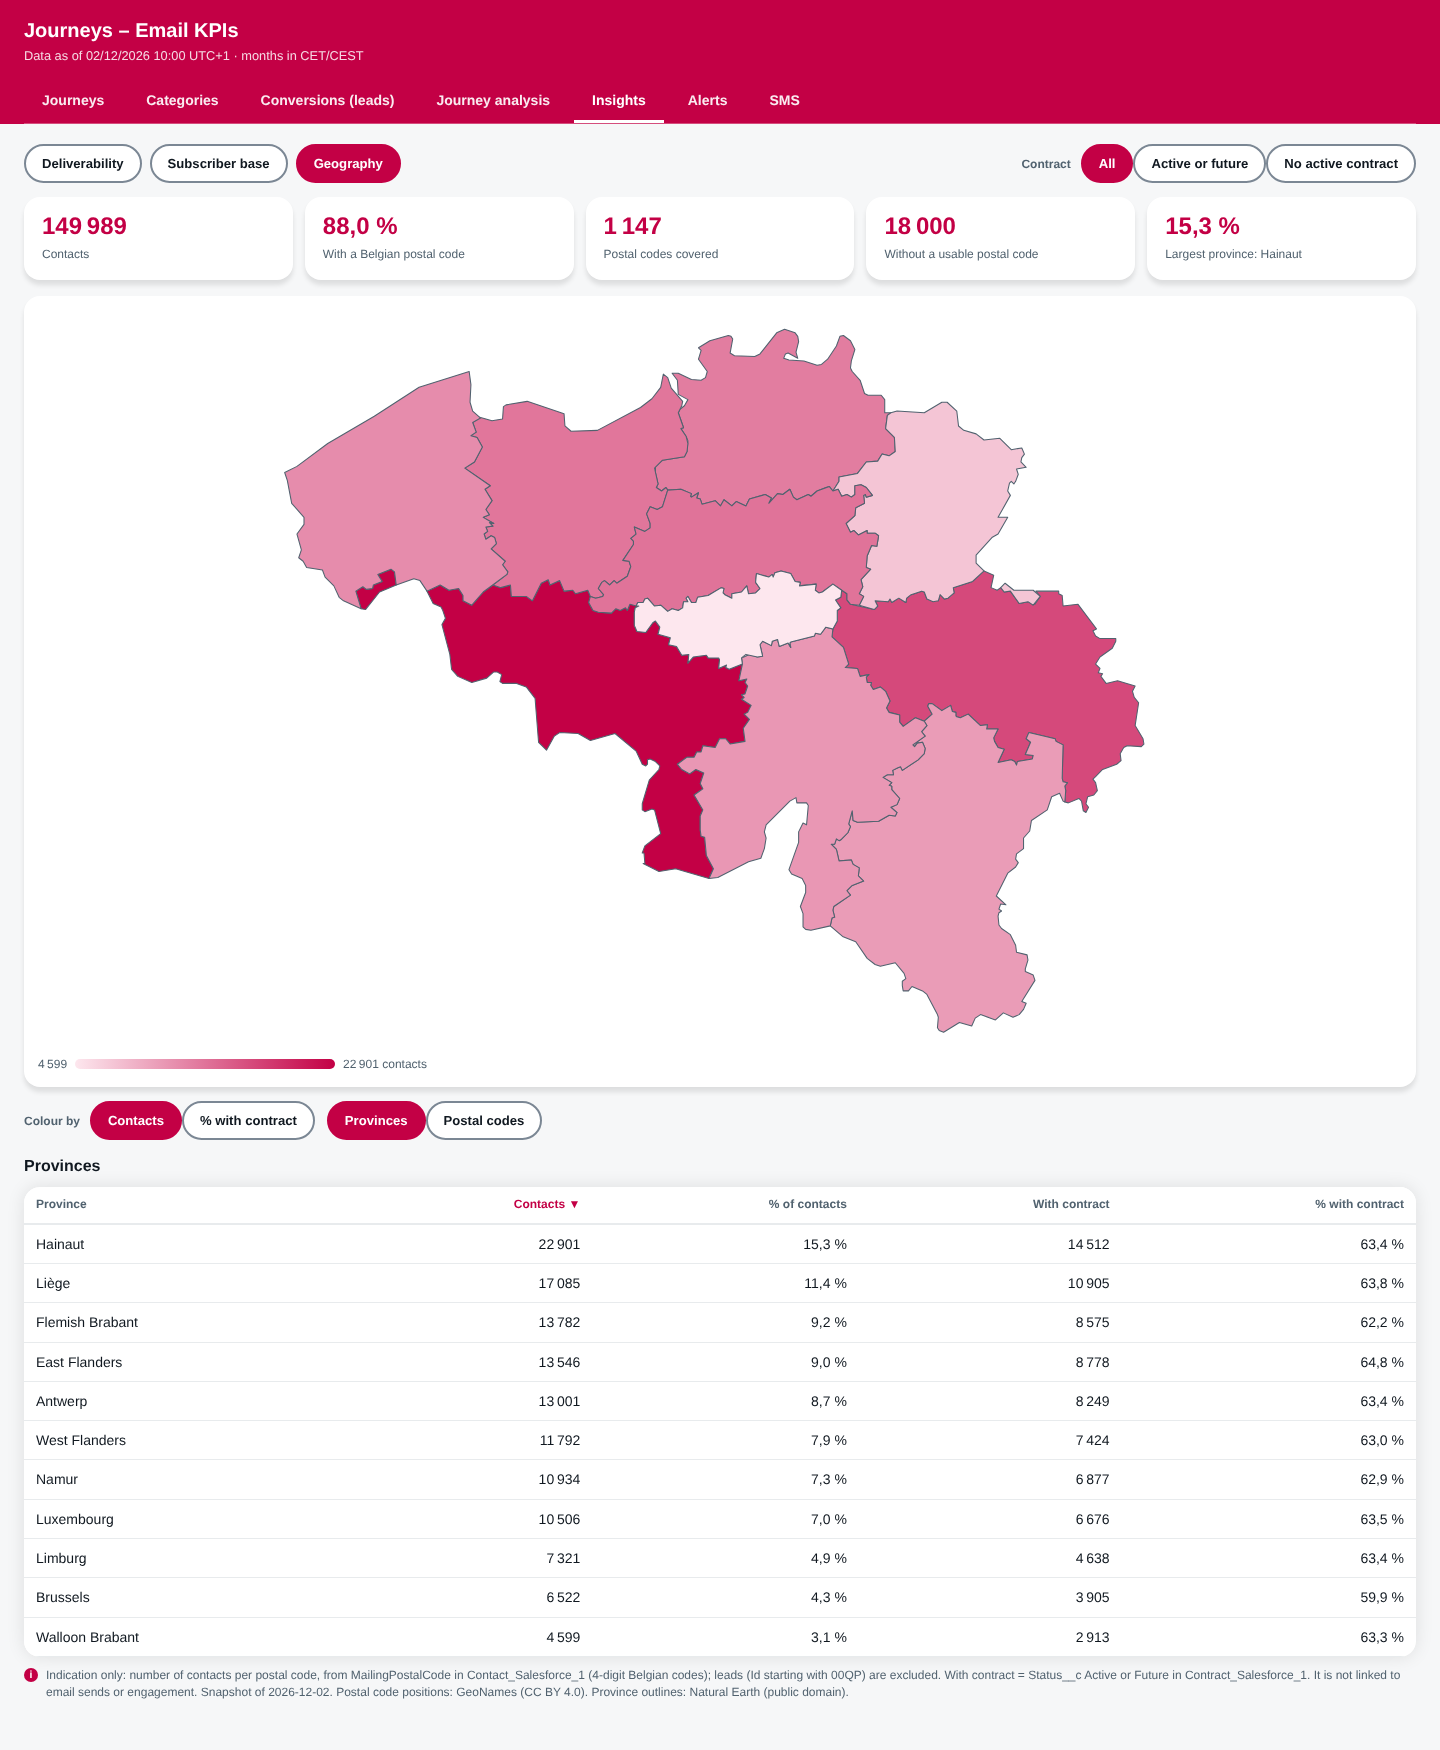
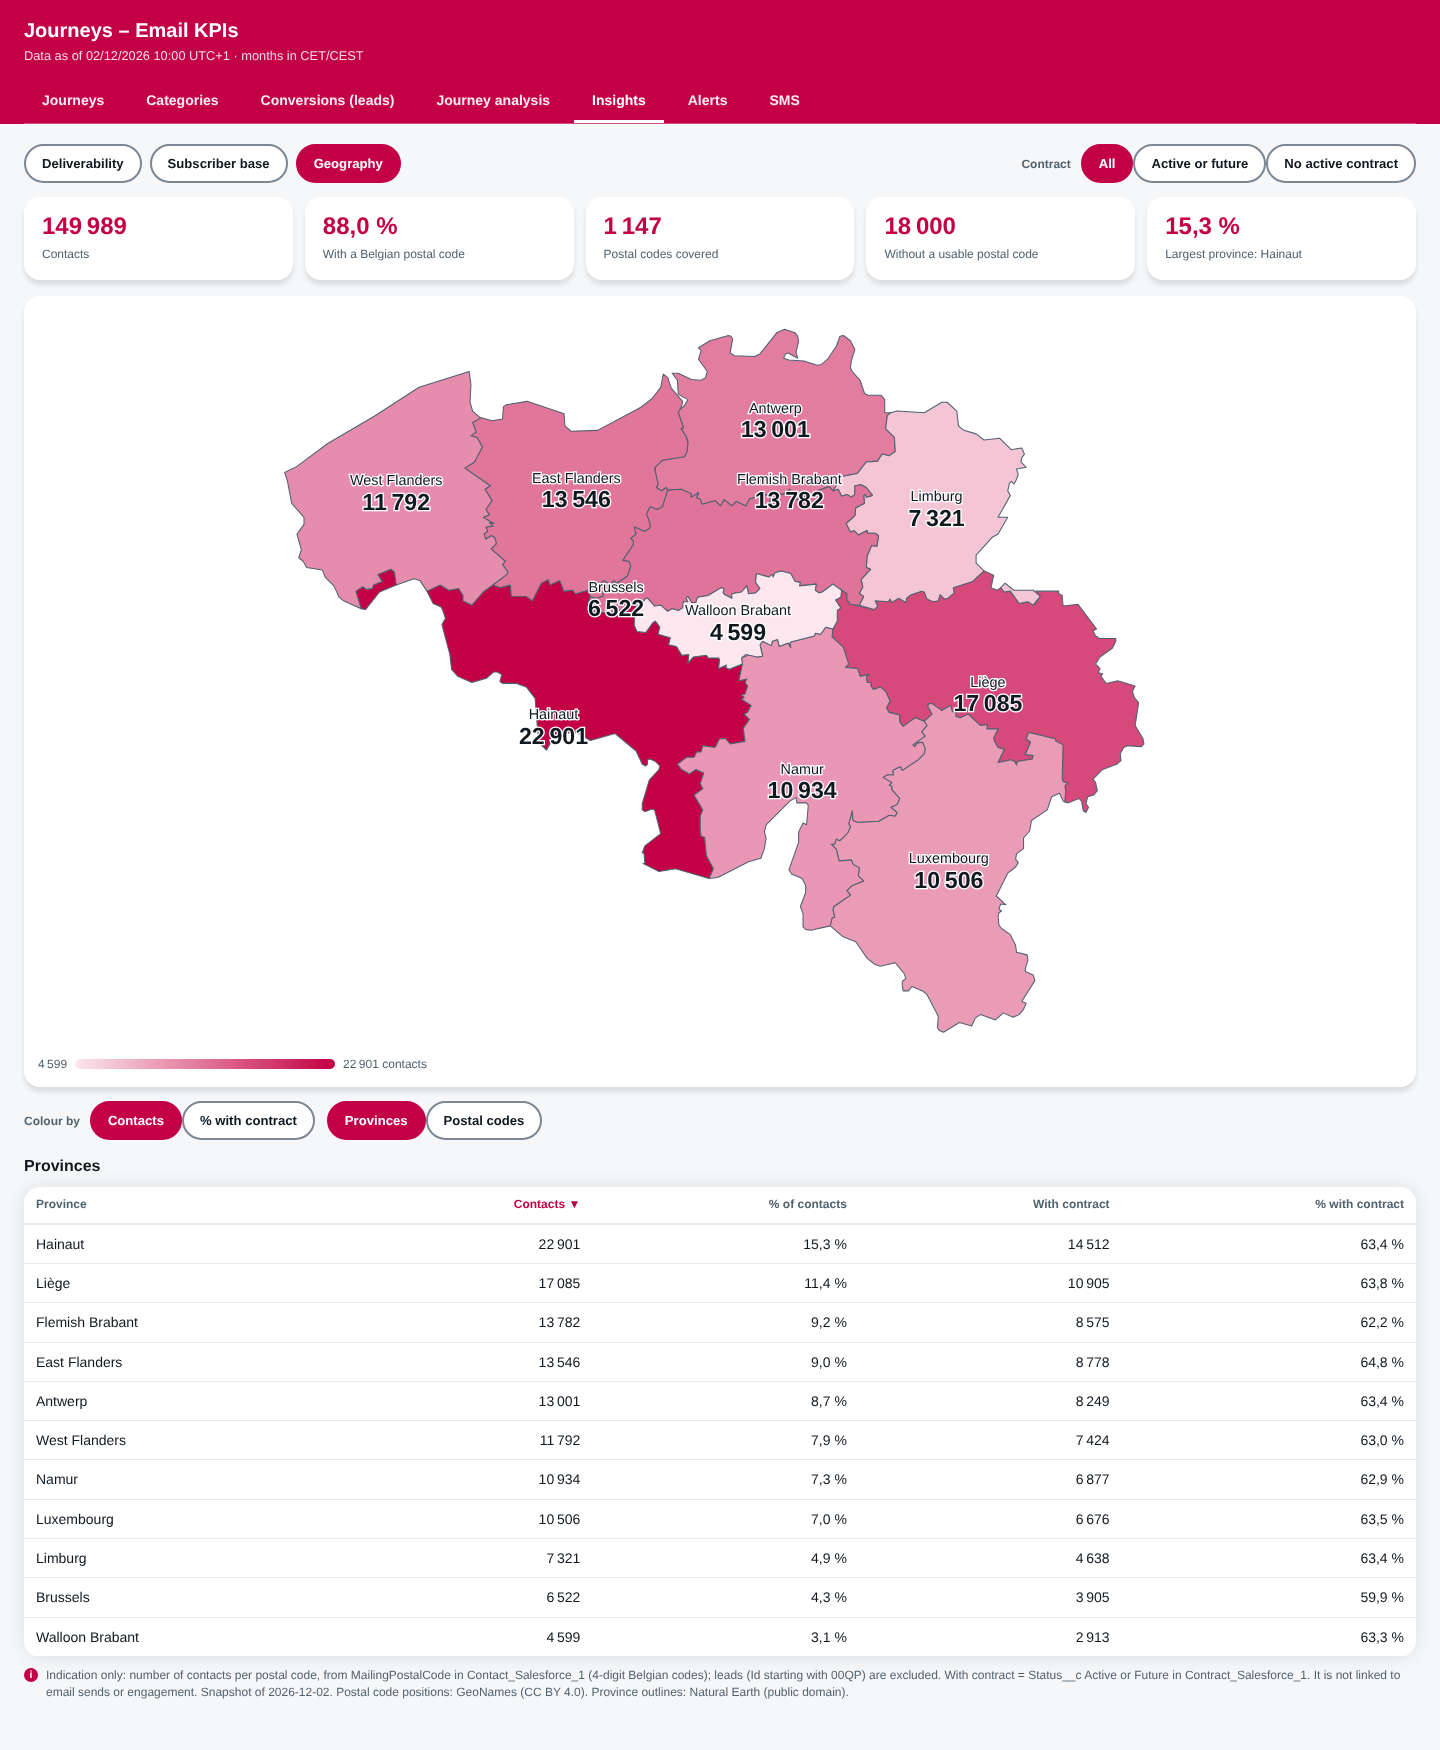
Geography: fix oversized bubbles in the % with contract view; colour relative to the average, values written on provinces
Claude-Session: https://claude.ai/code/session_01WtzjzeTDomDiWbenzCQNQG

diff --git a/cloudpage_dashboard.html b/cloudpage_dashboard.html
@@ -271,6 +271,7 @@ a.jl:focus-visible{outline:2px solid var(--focus);outline-offset:2px;border-radi
 .mapfull{margin-bottom:14px}
 #segCharts{grid-template-columns:minmax(320px,640px)}
 .prov{stroke:var(--mute);stroke-width:1.2;stroke-linejoin:round}
+.plabel{fill:var(--fg);stroke:var(--card);stroke-width:3px;paint-order:stroke;pointer-events:none;font-family:inherit}
 .prov:hover{stroke:var(--tx-red);stroke-width:2.5}
 .pc{stroke:rgba(16,24,32,.4);stroke-width:.6;fill-opacity:.82}
 .pc:hover{stroke:var(--fg);stroke-width:1.6}
@@ -1047,10 +1048,10 @@ function viewGeo(){
   const cnt = r => sg==='yes' ? (r.WithContract||0) : sg==='no' ? r.Contacts-(r.WithContract||0) : r.Contacts;
   msg.hidden = true;
   if (!rows.length){ msg.hidden = false; msg.textContent = 'No contact geography yet (DASH_Contact_Geo).'; box.innerHTML = ''; $('tGeo').innerHTML = ''; cards('geoCards',[]); $('mapLegend').textContent=''; return; }
-  const pcm = new Map(), pvm = new Map(); let total = 0, na = 0, asof = '';
+  const pcm = new Map(), pvm = new Map(); let total = 0, na = 0, asof = '', tAll = 0, tWC = 0;
   const add = (m, key, c, wc, extra) => { let a = m.get(key); if (!a){ a = Object.assign({key,Contacts:0,All:0,WC:0}, extra||{}); m.set(key,a); } a.Contacts += c; a.All += wc[0]; a.WC += wc[1]; };
   for (const r of rows){
-    const c = cnt(r), wc = [r.Contacts, r.WithContract||0]; total += c; if (r.AsOf) asof = r.AsOf; const g = GEO.postal[r.PostalCode];
+    const c = cnt(r), wc = [r.Contacts, r.WithContract||0]; total += c; tAll += wc[0]; tWC += wc[1]; if (r.AsOf) asof = r.AsOf; const g = GEO.postal[r.PostalCode];
     if (r.PostalCode==='N/A' || !g){ na += c; continue; }
     add(pcm, r.PostalCode, c, wc, {name:g[3], prov:g[2], x:g[0], y:g[1]}); add(pvm, g[2], c, wc);
   }
@@ -1059,18 +1060,29 @@ function viewGeo(){
   const known = total - na, ents = S.gl==='prov' ? pvm : pcm;
   const mv = e => byPc ? (e.All ? e.WC/e.All : 0) : e.Contacts;
   const vals = [...ents.values()].map(mv), lo = Math.min(...vals), hi = Math.max(...vals), fv = v => byPc ? fx1(v*100)+' %' : n(v);
+  /* % with contract: colour relative to the overall average (above = strong, below = pale), because the provinces only differ by a few points */
+  const avg = tAll ? tWC/tAll : 0, span = Math.max(hi-avg, avg-lo) || 1;
+  const col = e => byPc ? ramp(.5 + (mv(e)-avg)/(2*span)) : ramp((mv(e)-lo)/((hi-lo)||1));
   let svg = '<svg viewBox="'+GEO.viewBox.join(' ')+'" role="img" aria-label="Map of Belgium: number of contacts by '+(S.gl==='prov'?'province':'postal code')+'. The same figures are in the table next to the map.">';
-  for (const p of GEO.provinces){ const e = pvm.get(p.id); svg += '<path class="prov" d="'+p.d+'" fill="'+(S.gl==='prov' && e ? ramp((mv(e)-lo)/((hi-lo)||1)) : 'var(--map-neutral)')+'" data-k="v:'+p.id+'"/>'; }
+  for (const p of GEO.provinces){ const e = pvm.get(p.id); svg += '<path class="prov" d="'+p.d+'" fill="'+(S.gl==='prov' && e ? col(e) : 'var(--map-neutral)')+'" data-k="v:'+p.id+'"/>'; }
   if (S.gl==='postal'){
-    const maxC = Math.max(...vals, 1);
-    [...pcm.values()].sort((a,b)=>b.Contacts-a.Contacts).forEach(e=>{ svg += '<circle class="pc" cx="'+e.x+'" cy="'+e.y+'" r="'+(4+30*Math.sqrt(e.Contacts/maxC)).toFixed(1)+'" fill="'+(byPc ? ramp((mv(e)-lo)/((hi-lo)||1)) : ramp(.75))+'" data-k="p:'+e.key+'"/>'; });
+    const maxC = Math.max(...[...pcm.values()].map(e=>e.Contacts), 1);   /* bubble size = contacts, whatever the colour metric */
+    [...pcm.values()].sort((a,b)=>b.Contacts-a.Contacts).forEach(e=>{ svg += '<circle class="pc" cx="'+e.x+'" cy="'+e.y+'" r="'+(4+30*Math.sqrt(e.Contacts/maxC)).toFixed(1)+'" fill="'+(byPc ? col(e) : ramp(.75))+'" data-k="p:'+e.key+'"/>'; });
   }
   box.innerHTML = svg + '</svg>';
+  if (S.gl==='prov'){   /* value written on each province */
+    const sv = box.firstChild, NS = 'http://www.w3.org/2000/svg', fs = GEO.viewBox[2]/38;
+    sv.querySelectorAll('path.prov').forEach(p=>{
+      const id = p.dataset.k.slice(2), e = pvm.get(id); if (!e) return; const bb = p.getBBox(), NUD = {BRU:[-3.4,1.6], VBR:[2.4,-2.6]}, nd = NUD[id]||[0,0], cx = bb.x+bb.width/2+nd[0]*fs, cy = bb.y+bb.height/2+nd[1]*fs;   /* Brussels sits inside Flemish Brabant: nudge both labels apart */
+      [[provName(p.dataset.k.slice(2)), .62, 500, -.2],[fv(mv(e)), 1, 700, .85]].forEach(([txt,sz,w,dy])=>{ const tx = document.createElementNS(NS,'text'); tx.setAttribute('x',cx); tx.setAttribute('y',cy+dy*fs); tx.setAttribute('text-anchor','middle'); tx.setAttribute('class','plabel'); tx.setAttribute('font-size',(fs*sz).toFixed(1)); tx.setAttribute('font-weight',w); tx.textContent = txt; sv.appendChild(tx); });
+    });
+  }
   const grad = '<i style="background:linear-gradient(90deg,'+ramp(0)+','+ramp(1)+')"></i>';
-  $('mapLegend').innerHTML = S.gl==='postal' ? (byPc ? '<span>Bubble area = number of contacts · colour = </span><span>'+fv(lo)+'</span>'+grad+'<span>'+fv(hi)+' with contract</span>' : '<span>Bubble area = number of contacts</span>')
-    : '<span>'+fv(lo)+'</span>'+grad+'<span>'+fv(hi)+(byPc ? ' of contacts with a contract' : ' contacts')+'</span>';
+  const avgTxt = byPc ? '<span> · average '+fv(avg)+' (centre of the scale)</span>' : '';
+  $('mapLegend').innerHTML = S.gl==='postal' ? (byPc ? '<span>Bubble area = number of contacts · colour = % with contract:</span><span>'+fv(lo)+'</span>'+grad+'<span>'+fv(hi)+'</span>'+avgTxt : '<span>Bubble area = number of contacts</span>')
+    : '<span>'+fv(lo)+'</span>'+grad+'<span>'+fv(hi)+(byPc ? ' of contacts with a contract' : ' contacts')+'</span>'+avgTxt;
   const share = e => e.Contacts/total < 0.001 ? '< 0,1 %' : pct(e.Contacts,total);
-  const info = (title,e) => '<b>'+esc(title)+'</b>Contacts'+segTxt+': '+n(e.Contacts)+' ('+share(e)+(sg==='all'?' of all contacts':' of the segment')+')'+(hasG?'<br>With contract: '+n(e.WC||0)+' of '+n(e.All||0):'');
+  const info = (title,e) => '<b>'+esc(title)+'</b>Contacts'+segTxt+': '+n(e.Contacts)+' ('+share(e)+(sg==='all'?' of all contacts':' of the segment')+')'+(hasG?'<br>With contract: '+n(e.WC||0)+' of '+n(e.All||0)+(e.All?' ('+pct(e.WC||0,e.All)+')':''):'');
   const show = ev => {
     const t = ev.target.closest && ev.target.closest('[data-k]'); if (!t){ tip.hidden = true; return; }
     const [kind,key] = t.dataset.k.split(':'), e = kind==='v' ? pvm.get(key) : pcm.get(key);
